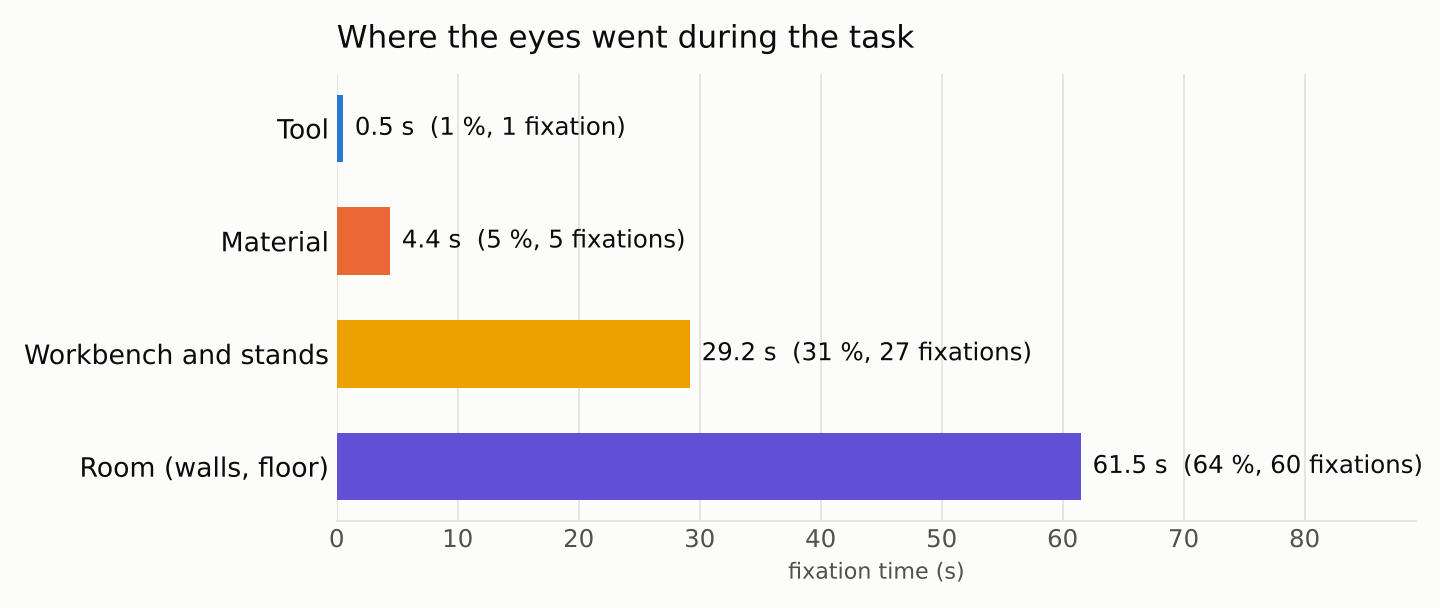
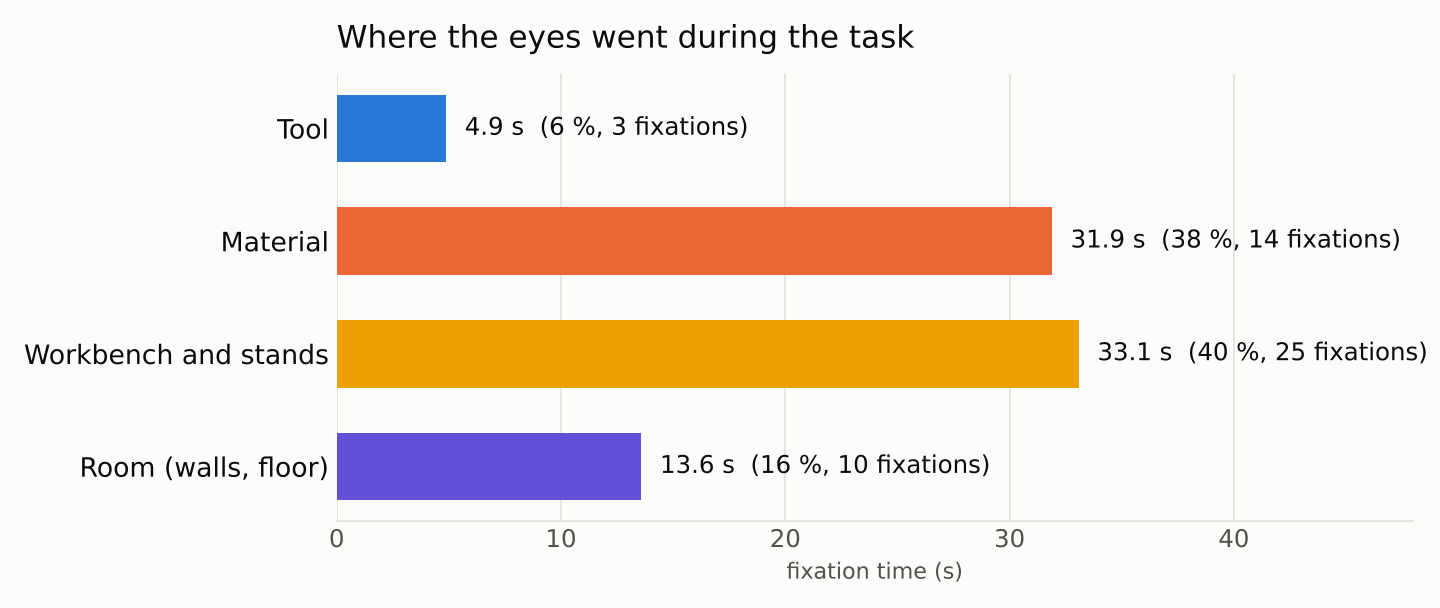
Added proper analysis of user  session

diff --git a/tools/analyze_session.py b/tools/analyze_session.py
@@ -86,14 +86,12 @@ def main():
     skip = windows(events, "calibration_start", ["calibrated", "calibration_failed"])
     skip += windows(events, "grid_start", ["grid_end"])
     if a.phase == "task":
-        starts = [t for t, e in events if e in ("phase:task", "task_start")]
-        ends = [t for t, e in events if e in ("session_end",)]
-        t0 = starts[-1] if starts else float(rows[0]["time"])
-        t1 = ends[-1] if ends and ends[-1] > t0 else t_end
-        # use the last task start that has more than 30 s after it
-        for s in reversed(starts):
-            if t1 - s > 30:
-                t0 = s; break
+        # the task runs from "phase:task" (SessionRunner) or the first task_start,
+        # to the first task_end / post-task grid / session end after it
+        starts = [t for t, e in events if e == "phase:task"] or [t for t, e in events if e == "task_start"]
+        t0 = starts[0] if starts else float(rows[0]["time"])
+        ends = [t for t, e in events if t > t0 and (e.startswith("task_end") or e in ("phase:grid_post", "session_end"))]
+        t1 = ends[0] if ends else t_end
     else:
         t0, t1 = float(rows[0]["time"]), t_end
     def keep(t):
@@ -152,17 +150,26 @@ def main():
     lane = {g: i for i, g in enumerate(groups[::-1])}
     for s, d, nme, g in fix:
         ax.broken_barh([(s - t0, max(d, 0.08))], (lane[g] - 0.32, 0.64), color=COLOR.get(g, "#8a8984"))
+    last_label = -1e9
     for t, e in events:
         if (e.startswith("grab:") or e.startswith("release:")) and t0 <= t <= t1:
             ax.axvline(t - t0, color=INK2, linewidth=0.8, linestyle=(0, (2, 3)))
-            if e.startswith("grab:"):
-                ax.text(t - t0, len(groups) - 0.35, e.split(":")[1], rotation=0, fontsize=9, color=INK2, ha="left")
+            if e.startswith("grab:") and t - last_label > 0.07 * (t1 - t0):   # skip labels that would overlap
+                ax.text(t - t0 + 0.3, len(groups) - 0.3, e.split(":")[1], fontsize=9, color=INK2, ha="left")
+                last_label = t
+    for t, e in events:
+        if e.startswith("rule_violation") and t0 <= t <= t1:
+            ax.plot([t - t0], [len(groups) - 0.55], marker="v", color="#e34948", markersize=9)
+    viol = [t for t, e in events if e.startswith("rule_violation") and t0 <= t <= t1]
+    if viol:
+        ax.text(viol[-1] - t0 + 1.5, len(groups) - 0.6, "rule broken: " + [e for t, e in events if e.startswith("rule_violation")][0].split(":", 1)[1].replace("_", " "),
+                fontsize=9, color="#b3261e", va="center")
     for s, e in skip:
         if e > t0 and s < t1:
             ax.axvspan(max(s, t0) - t0, min(e, t1) - t0, color=GRID, alpha=0.6, linewidth=0)
     ax.set_yticks(list(lane.values()), list(lane.keys()), color=INK, fontsize=11)
     ax.set_xlim(0, t1 - t0); ax.set_ylim(-0.6, len(groups) + 0.1)
-    ax.set_xlabel("time in task (s)   ·   dashed: grab / release   ·   grey: recalibration, not counted")
+    ax.set_xlabel("time in task (s)   ·   dashed: grab / release   ·   red: rule broken   ·   grey: not counted")
     ax.set_title("Fixations over time", loc="left", color=INK, fontsize=14, pad=12)
     fig.tight_layout(); fig.savefig(os.path.join(a.out, "timeline.png")); plt.close(fig)
 

diff --git a/README.md b/README.md
@@ -113,41 +113,44 @@ Writes the dwell, timeline and eye vs head figures plus a summary table to `docs
 
 ## Results
 
-Single user (me), one Quest 3, sessions recorded. Not a study, a check that the pipeline works.
+Single user (me), one Quest 3. Not a study, a check of what the pipeline can measure. Numbers below are from the session with the best calibration.
 
 | | |
 |---|---|
-| Calibration error (9 dots, polynomial map) | **0.8° mean, 1.4° worst** in the best run, 1.3° to 2.8° in others |
-| Frames with the pupil found | 92 to 93 % over 4 to 6 minute sessions |
+| Calibration fit (9 dots, polynomial map) | **0.8° mean, 1.4° worst** |
+| Accuracy grid right after calibration (25 targets, ±15° × ±10°) | **5.4° in the centre, 9.1° median** |
+| Accuracy grid after the task (about 3 minutes later) | 11.7° in the centre, 16.9° median |
+| Precision (sample-to-sample, median over targets) | 0.9° |
+| Frames with the pupil found | 92 to 93 % |
 | Gaze rate reaching the headset | about 10 per second |
-| Fixations logged in a 4 minute task | 106, median 0.6 s, each with the object looked at |
 
-The calibration numbers are measured on the calibration dots themselves. The accuracy grid, run after it, is the honest test, and there the error grew over the session when the headset moved on my face (see Limitations).
+**The calibration fit is not the accuracy.** The fit is measured on the same dots it was made from. The independent grid shows the real error: about 5° near the centre, worse toward the edges, and it doubles over a few minutes as the headset shifts on the face. Precision stays under 1°, so the gaze is stable but offset. That points at headset slip, not at the pupil detection. I also grabbed a tool during the first grid, which adds some error there.
 
 ### What one task session shows
 
-`tools/analyze_session.py` turns a headset log into the figures below. This is a 2.7 minute task with the saw and the file (calibration 1.3°), with calibration and accuracy checks cut out.
+`tools/analyze_session.py` turns a headset log into the figures below: 99 seconds of work with saw, hammer and file, calibration and accuracy checks cut out.
 
 <img src="docs/analysis/dwell.png" width="49%"> <img src="docs/analysis/eye_vs_head.png" width="49%">
 <img src="docs/analysis/timeline.png" width="100%">
 
 What I read from it:
 
-- **Small objects are hard to hit.** The tool got 1 % of the fixation time and the workbench under it 31 %. A tool handle seen from 60 cm is about 4° wide, so with 1 to 3° error plus some headset slip, gaze meant for the tool often lands on the bench. Object size decides which questions you can ask.
-- **The head is a poor stand-in for the eyes.** In 70 % of samples, eye gaze and head direction were more than 10° apart (median 17°). A study that logs only head direction would put attention on the wrong object much of the time.
-- **The data needs a quality filter.** 19 % of samples put the eye more than 40° off the head direction, more than eyes normally turn. Those are tracking errors, and they come in bursts that a per-sample check can catch.
-- **The timeline shows the work rhythm.** Looks at the room between tool use, a run of fixations on the bench and material around each grab, and the recalibration in the middle.
+- **Large things are measurable, small ones are not.** Material blocks and the workbench got 78 % of the fixation time, tools 6 %. A tool handle at 60 cm is about 4° wide, smaller than the error, so gaze meant for a tool often lands next to it.
+- **The rule break is the interesting moment, and the hardest to judge.** Four forbidden hammer hits on the marble fell inside one long fixation logged on the workbench next to the marble. With about 5° error I cannot say whether I looked at the marble or not. This is exactly the question a trainer would ask, and it shows the accuracy a tracker needs before the answer can be trusted.
+- **The head is a poor stand-in for the eyes.** In 63 % of samples, eye gaze and head direction were more than 10° apart (median 12°). Logging only head direction would often name the wrong object.
+- **A quality filter is cheap and needed.** 1 % of samples put the eye more than 40° off the head direction, more than eyes normally turn. Those are tracking errors and get removed.
+- **The timeline shows the work rhythm.** Material and bench fixations around each grab, short looks at the room in between.
 
-This was a single session from me, so treat these as examples of what the pipeline can show, not as findings about people.
+One session from one person: examples of what the pipeline shows, not findings about people.
 
 ## Blueprint: which gaze metrics this setup can support
 
-Based on the measured accuracy (about 1 to 3° after calibration, more after headset slip) and rate (about 10 samples per second).
+Based on the measured accuracy (about 5° in the centre after calibration, getting worse with headset slip), precision (under 1°) and rate (about 10 samples per second). A commercial headset tracker (about 1°, 90 Hz or more) moves most rows to "yes".
 
-| Metric | What it tells a trainer | What it needs | Here |
+| Metric | What it tells a trainer | What it needs | This setup |
 |---|---|---|---|
-| Dwell time per object | which parts of the station get attention | accuracy well below the object's angular size | yes for large objects (bench, panels, instruction boards); not reliable for small tools |
-| Seen or not seen before an action (for example a safety sign before the first grab) | procedure followed, cue noticed | events in the same log as gaze, object larger than about 5° | yes: grabs, hits and fixations share one timeline |
+| Dwell time per object | which parts of the station get attention | accuracy well below the object's angular size | yes for large objects (bench, material blocks, instruction boards); no for tools |
+| Seen or not seen before an action (a safety sign before the first grab, the material before a hit) | procedure followed, cue noticed | events in the same log as gaze, object about three times the error | partly: the events are there, but small or close objects are ambiguous (see the marble) |
 | Order of fixations (scanpath) | planning, searching vs knowing where to look | fixation detection, about 100 ms timing | coarse: about 100 ms resolution at 10 Hz |
 | Fixation count and duration | searching vs focused work, uncertainty | 30 Hz or more for durations you can compare | rough only |
 | Eye vs head direction | whether a cheaper head-only setup would be enough | eye tracking | yes, and here the answer was no |
@@ -156,9 +159,9 @@ Based on the measured accuracy (about 1 to 3° after calibration, more after hea
 
 **Rules of thumb from building it**
 
-1. Check accuracy at the start and the end of every session, and drop sessions where it falls apart.
-2. Design areas of interest from the accuracy you have: about three times the error. At 2° that is about 6°, roughly a 6 cm object at arm's length.
-3. Log task events next to gaze. "Looked at the sign before grabbing the hammer" is one join, and it is the kind of question trainers ask.
+1. Never report the calibration fit as accuracy. Check with separate targets at the start and the end of every session, and drop sessions where it falls apart.
+2. Design areas of interest from the accuracy you have: about three times the error. At 5° that is about 15°, roughly a 15 cm object at arm's length. At 1° (a good commercial tracker) it is a 3 cm object.
+3. Log task events next to gaze. "Looked at the material before hitting it" is one join, and it is the kind of question trainers ask.
 4. Filter physiologically impossible gaze before computing anything.
 5. Record the eye video. When a number looks odd, the video tells you whether it was the person or the tracker.
 

diff --git a/docs/analysis/summary.md b/docs/analysis/summary.md
@@ -1,11 +1,11 @@
-| Session | `session_20261019_221911.csv`, task phase, 162 s |
+| Session | `session_20261019_224554.csv`, task phase, 99 s |
 |---|---|
-| Gaze samples reaching the headset | 8.0 per second |
-| Fixations | 93, 96 s in total |
-| Fixation time on tool | 0.5 s (1 %) |
-| Fixation time on material | 4.4 s (5 %) |
-| Fixation time on workbench and stands | 29.2 s (31 %) |
-| Fixation time on room (walls, floor) | 61.5 s (64 %) |
-| Eye vs head angle | median 17.3°, 75th percentile 33.4° |
-| Samples with eye and head more than 10° apart | 70 % |
-| Samples beyond 40° (treated as tracking errors) | 19 % |
+| Gaze samples reaching the headset | 9.7 per second |
+| Fixations | 52, 83 s in total |
+| Fixation time on tool | 4.9 s (6 %) |
+| Fixation time on material | 31.9 s (38 %) |
+| Fixation time on workbench and stands | 33.1 s (40 %) |
+| Fixation time on room (walls, floor) | 13.6 s (16 %) |
+| Eye vs head angle | median 11.6°, 75th percentile 16.0° |
+| Samples with eye and head more than 10° apart | 63 % |
+| Samples beyond 40° (treated as tracking errors) | 1 % |
